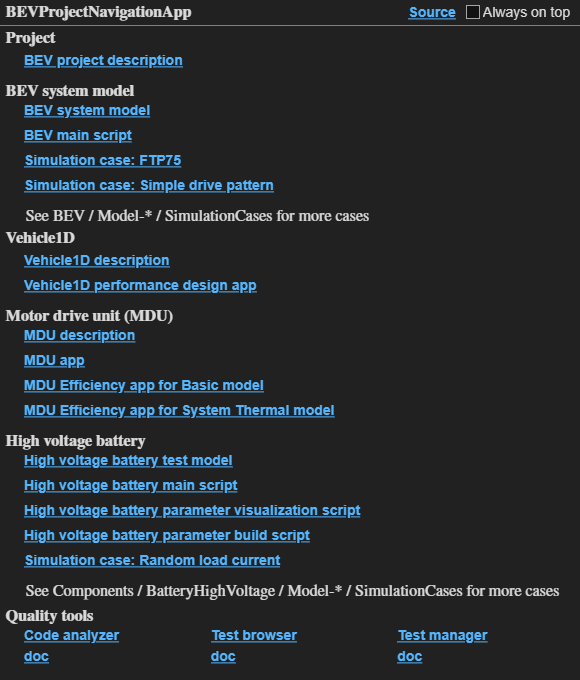
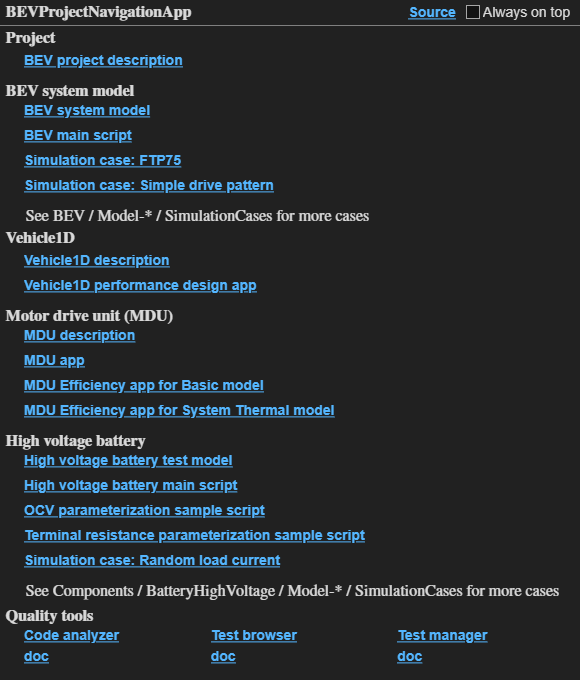
Remove the dependency on Signal Designer from BEV Controller component.

Changed region(s): [[0.031, 0.7412, 0.6517, 0.8029]]

diff --git a/Utility/BEVProjectNavigationAppMain.m b/Utility/BEVProjectNavigationAppMain.m
@@ -263,11 +263,11 @@ classdef BEVProjectNavigationAppMain < handle
       row = NewRow(layout, column);
       LiteApp7.Component.Label(NewSlot(layout, row, Width=indent), Text="");
 
-      target_hvbattery_visualization_script = "BatteryHV_SystemTable_ParameterPlot_sample_script";
+      target_hvbattery_visualization_script = "refineOCVData_sample_script";
       check_link(target_hvbattery_visualization_script);
 
       link_ui = LiteApp7.Component.Hyperlink(NewSlot(layout, row));
-      link_ui.HyperlinkText = "High voltage battery parameter visualization script";
+      link_ui.HyperlinkText = "OCV parameterization sample script";
       link_ui.Tooltip = "Open script: " + target_hvbattery_visualization_script;
       link_ui.HyperlinkClickedCallback = @() open_target_script(App, target_hvbattery_visualization_script);
 
@@ -275,11 +275,11 @@ classdef BEVProjectNavigationAppMain < handle
       row = NewRow(layout, column);
       LiteApp7.Component.Label(NewSlot(layout, row, Width=indent), Text="");
 
-      target_hvbattery_parameter_build_script = "BatteryHV_SystemTable_DataBuild_sample_script";
+      target_hvbattery_parameter_build_script = "refineTerminalResistanceData_sample_script";
       check_link(target_hvbattery_parameter_build_script);
 
       link_ui = LiteApp7.Component.Hyperlink(NewSlot(layout, row));
-      link_ui.HyperlinkText = "High voltage battery parameter build script";
+      link_ui.HyperlinkText = "Terminal resistance parameterization sample script";
       link_ui.Tooltip = "Open script: " + target_hvbattery_parameter_build_script;
       link_ui.HyperlinkClickedCallback = @() open_target_script(App, target_hvbattery_parameter_build_script);
 

diff --git a/Components/BatteryHighVoltage/InputsForTestModel/testModelSetup_BatteryHV_Inputs.m b/Components/BatteryHighVoltage/InputsForTestModel/testModelSetup_BatteryHV_Inputs.m
@@ -5,6 +5,9 @@
 % Negative value for charing.
 testParam.CRate = -0.1;
 
+testParam.LoadCurrent = simscape.Value(0, "A");
+
+
 testParam.NominalCapacity = simscape.Value(60, "kWh");
 
 testParam.NominalVoltage = simscape.Value(340, "V");

diff --git a/Components/BatteryHighVoltage/ToolTest/refineTerminalResistanceData/markdown/refineTerminalResistanceData_sample_script.md b/Components/BatteryHighVoltage/ToolTest/refineTerminalResistanceData/markdown/refineTerminalResistanceData_sample_script.md
@@ -1,0 +1,84 @@
+
+# <span style="color:rgb(213,80,0)">refineTerminalResistanceData sample script</span>
+
+Run the function without any arguments. It uses default inputs and returns a result.
+
+```matlab
+data = HighVoltageBatteryTool1.refineTerminalResistanceData;
+head(data, 3)
+```
+
+```matlabTextOutput
+    SOC              TerminalResistance          
+    ____    _____________________________________
+
+       0       0.47        0.17        0.13 (Ohm)
+    0.01    0.47258     0.15822    0.095488 (Ohm)
+    0.02     0.4719     0.14687     0.06137 (Ohm)
+```
+
+```matlab
+tail(data, 3)
+```
+
+```matlabTextOutput
+    SOC               TerminalResistance          
+    ____    ______________________________________
+
+    0.98    0.098085     0.03431    0.024691 (Ohm)
+    0.99    0.099027    0.033658    0.024346 (Ohm)
+       1         0.1       0.033       0.024 (Ohm)
+```
+
+```matlab
+disp(data.Properties.CustomProperties.TerminalResistanceTemperature)
+```
+
+```matlabTextOutput
+     0    25    60
+
+    (degC)
+```
+
+
+Assume you have OCV data measured at different temperatures.
+
+```matlab
+Temp = simscape.Value([0, 25, 60], "degC");
+SOC_data = [0; 0.05; 0.15; 0.4; 0.8; 1];
+TerminalResistance_data = simscape.Value( ...
+  [0.47 0.17 0.13; 0.45 0.12 0.005; 0.218 0.072 0.04; 0.101 0.053 0.037; 0.086 0.044 0.03; 0.1 0.033 0.024], ...
+  "Ohm");
+```
+
+Refine the data.
+
+```matlab
+SOC_refine_interval = 0.01;
+
+data = HighVoltageBatteryTool1.refineTerminalResistanceData( ...
+  Temperature = Temp, ...
+  SOC = SOC_data, ...
+  SOCInterval = SOC_refine_interval, ...
+  TerminalResistance = TerminalResistance_data );
+
+r0Temp = data.Properties.CustomProperties.TerminalResistanceTemperature;
+
+fig = figure;
+ax = axes(fig);
+hold(ax, "on")
+plot(ax, data.SOC, value(data.TerminalResistance));
+scatter(ax, SOC_data, value(TerminalResistance_data));
+grid(ax, "on");
+xlabel(ax, "State of Charge");
+ylabel(ax, "Terminal resistance (" + string(unit(data.TerminalResistance)) + ")");
+title(ax, "Terminal resistance vs SOC at different temperatures");
+leg = legend(ax, string(value(r0Temp)), Location="best");
+title(leg, "Temperature (" + string(unit(r0Temp)) + ")")
+```
+
+<center><img src="media/refineTerminalResistanceData_sample_script_media/figure_0.png" width="562" alt="figure_0.png"></center>
+
+
+*Copyright 2025 The MathWorks, Inc.*
+

diff --git a/Components/BatteryHighVoltage/ToolTest/refineOCVData/markdown/refineOCVData_sample_script.md b/Components/BatteryHighVoltage/ToolTest/refineOCVData/markdown/refineOCVData_sample_script.md
@@ -1,0 +1,84 @@
+
+# <span style="color:rgb(213,80,0)">refineOCVData sample script</span>
+
+Run the function without any arguments. It uses default inputs and returns a result.
+
+```matlab
+data = HighVoltageBatteryTool1.refineOCVData;
+head(data, 3)
+```
+
+```matlabTextOutput
+    SOC                 OCV             
+    ____    ____________________________
+
+       0     2.8       2.9         3 (V)
+    0.01    2.82      2.92    3.0338 (V)
+    0.02    2.84      2.94    3.0672 (V)
+```
+
+```matlab
+tail(data, 3)
+```
+
+```matlabTextOutput
+    SOC                  OCV              
+    ____    ______________________________
+
+    0.98    3.5777    3.8239    4.0604 (V)
+    0.99    3.5888    3.8621    4.1054 (V)
+       1       3.6       3.9      4.15 (V)
+```
+
+```matlab
+disp(data.Properties.CustomProperties.OCVTemperature)
+```
+
+```matlabTextOutput
+     0    25    60
+
+    (degC)
+```
+
+
+Assume you have OCV data measured at different temperatures.
+
+```matlab
+Temp = simscape.Value([0, 25, 60], "degC");
+SOC_data = [0; 0.1; 0.15; 0.25; 0.75; 0.9; 1];
+OCV_data = simscape.Value( ...
+  [2.8, 2.9, 3.0; 3.0, 3.1, 3.3; 3.1, 3.2, 3.4; 3.3, 3.4, 3.6; 3.4, 3.5, 3.7; 3.5, 3.6, 3.8; 3.6, 3.9, 4.15], ...
+  "V");
+```
+
+Refine the data.
+
+```matlab
+SOC_refine_interval = 0.01;
+
+data = HighVoltageBatteryTool1.refineOCVData( ...
+  Temperature = Temp, ...
+  SOC = SOC_data, ...
+  SOCInterval = SOC_refine_interval, ...
+  OCV = OCV_data );
+
+ocvTemp = data.Properties.CustomProperties.OCVTemperature;
+
+fig = figure;
+ax = axes(fig);
+hold(ax, "on")
+plot(ax, data.SOC, value(data.OCV));
+scatter(ax, SOC_data, value(OCV_data));
+grid(ax, "on");
+xlabel(ax, "State of Charge");
+ylabel(ax, "Open Circuit Voltage (" + string(unit(data.OCV)) + ")");
+title(ax, "OCV vs SOC at different temperatures");
+leg = legend(ax, string(value(ocvTemp)), Direction="reverse", Location="best");
+title(leg, "Temperature (" + string(unit(ocvTemp)) + ")")
+```
+
+<center><img src="media/refineOCVData_sample_script_media/figure_0.png" width="562" alt="figure_0.png"></center>
+
+
+*Copyright 2025 The MathWorks, Inc.*
+
